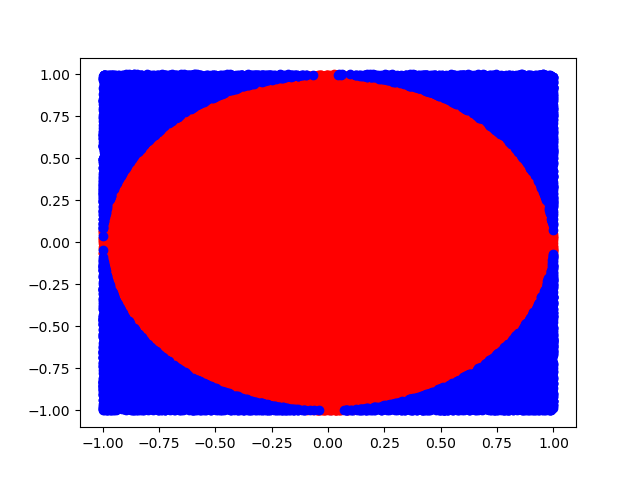
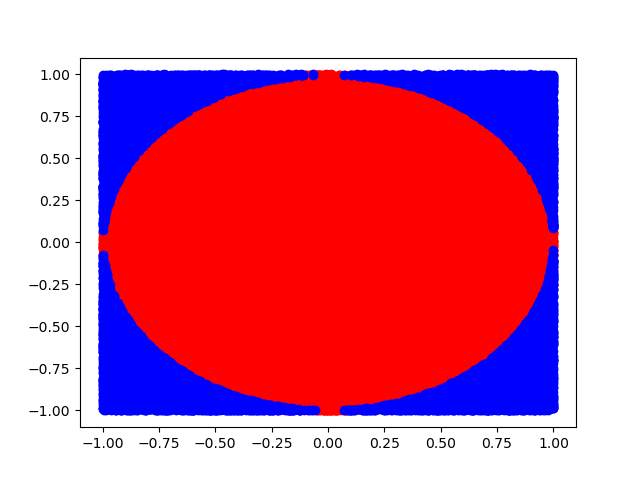
New version MA3_HT26

diff --git a/MA3_HT26/MA3.py b/MA3_HT26/MA3.py
@@ -1,3 +1,4 @@
+
 """ MA3.py
 
 Student: Maria Gil Sancho 
@@ -80,11 +81,22 @@ def sphere_volume_numba(n:int, d:int)->float:
     
 
 #Exc4: parallel code - parallelize actual computations by splitting data
-def sphere_volume_parallel2(n, d, np=10):
+def points_inside(n,d):
+    r=1
+    points_of_dimension=[[random.uniform(-1,1) for i in range(d)] for j in range(n)]
+    distance_points_of_dimension=[functools.reduce(lambda x,y : x+y, map(lambda x: x**2,x))for x in points_of_dimension]
+    filter_inside=list(filter(lambda x: x<=r,distance_points_of_dimension))
+    return len(filter_inside)
+
+def sphere_volume_parallel(n, d, np=10):
+   with future.ProcessPoolExecutor() as ex:
+    futures = [ex.submit(points_inside, n // np, d) for _ in range(np)]
+    inside_total = sum(f.result() for f in futures)
+   return 2**d * (inside_total / n)
     # n is the number of points
     # d is the number of dimensions of the sphere
     # np is the number of processes
-    return 
+    
     
 def main():
     # Exc1
@@ -132,13 +144,25 @@ def main():
     # Exc4
     n = 1000000
     d = 11
-    start = pc()
+    start_sequential = pc()
     sphere_volume(n, d)
-    stop = pc()
-    print(f"Exc4: Sequential time of {d} and {n}: {stop-start}")
+    stop_sequential = pc()
+    print(f"Exc4: Sequential time of {d} and {n}: {stop_sequential-start_sequential}")
+    #2.28 seconds
     print("What is parallel time?")
-    
-    
+    start_parallel = pc()
+    v=sphere_volume_parallel(n, d,np=10)
+    stop_parallel = pc()
+    print(f"Exc4: Parallel time of {d} and {n}: {stop_parallel-start_parallel}")
+    #1.76 seconds
 
+    #Run code in Linux servers provided by IT department --> vitsippa.it.uu.se
+    #Not able to run because no numba and matplotlib.
+    #1. Create virtual environment: python3 -m venv venv
+    #2. Activate virtual environment: source venv/bin/activate
+    #3. Install numba: pip install numba
+    #4. Install matplotlin: pip install matplotlib
+    #Exc4: Sequential time of 11 and 1000000: 14.072936641983688
+    #Exc4: Parallel time of 11 and 1000000: 1.604410293046385
 if __name__ == '__main__':
 	main()

diff --git a/MA3_HT26/example.py b/MA3_HT26/example.py
@@ -1,0 +1,19 @@
+
+from time import perf_counter as pc
+from time import sleep as pause
+import concurrent.futures as future 
+
+def runner(n):
+    print(f"Performing a costly function {n}")
+    pause(n) #sleep() method to resemble a particular process that takes some time to complete.
+    print(f"Function {n} has completed")
+
+if __name__ == "__main__":
+    start = pc()
+    with future.ProcessPoolExecutor() as ex:
+        p = [5, 4, 3, 2, 1]
+        results = ex.map(runner, p)
+        for r in results:
+            print(r)
+    end = pc()
+    print(f"Process took {round(end-start, 2)} seconds")
